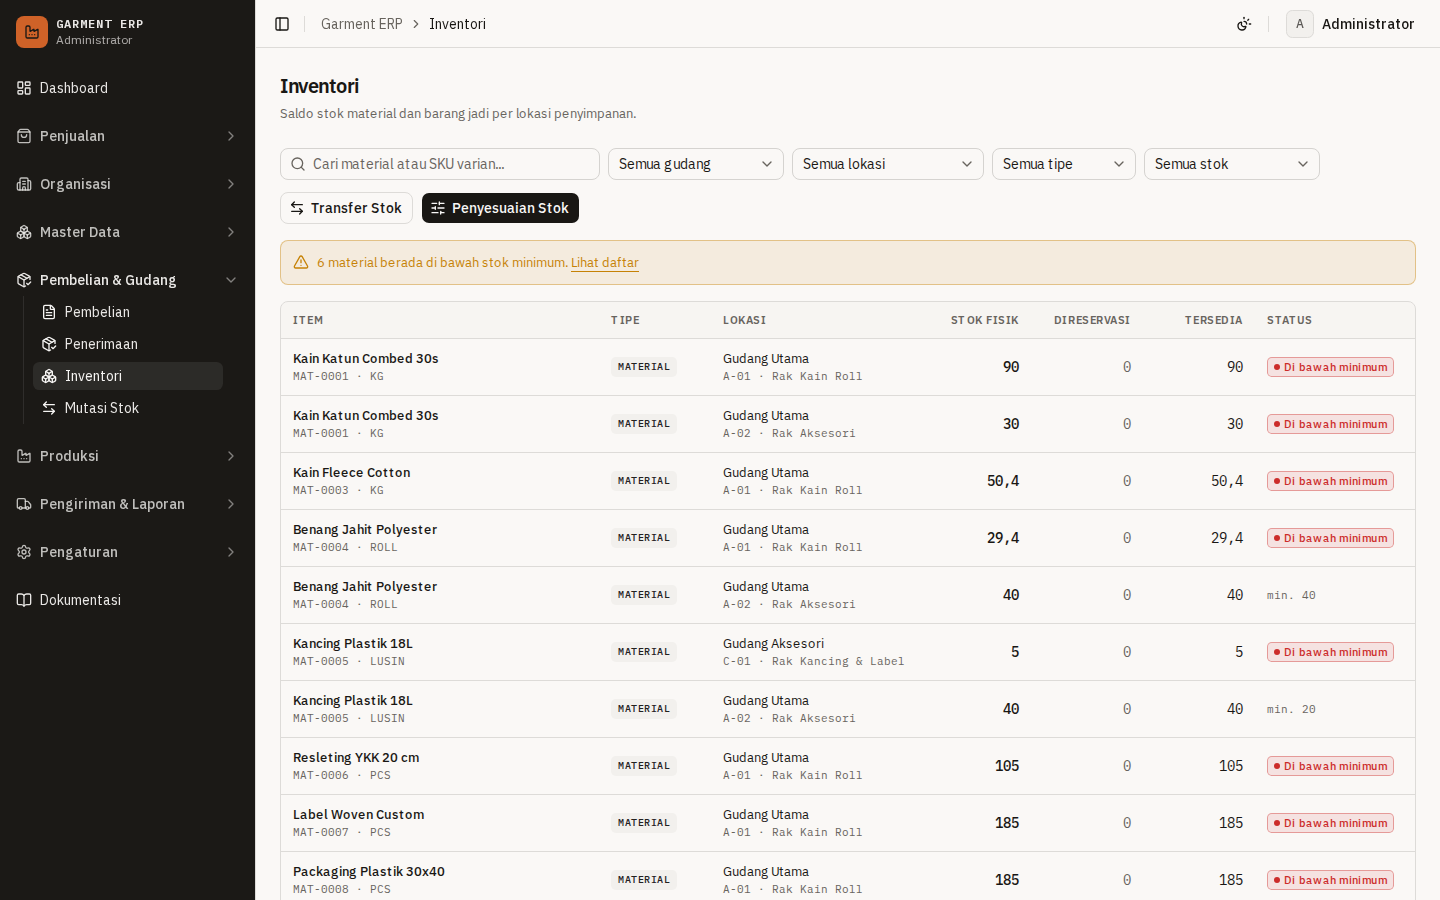
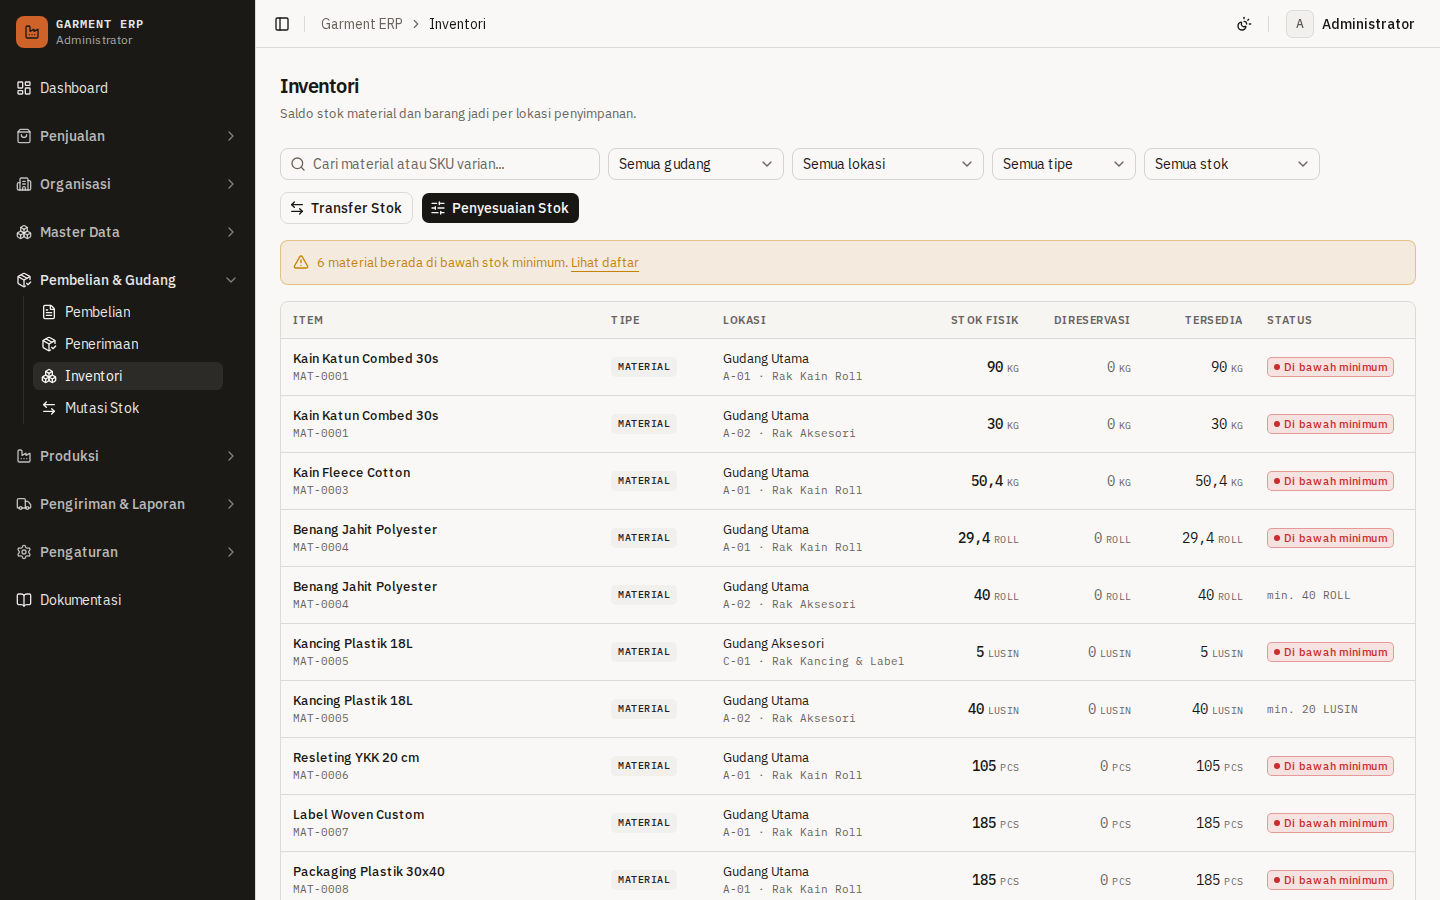
fix: tampilkan satuan pada kuantitas stok
- Tampilkan KG/ROLL/LUSIN/PCS langsung di setiap angka stok, mutasi, dan barang jadi.\n- Tambahkan satuan pada nilai minimum stok dan kartu ringkasan barang jadi.\n- Perbarui screenshot inventori dan barang jadi.

diff --git a/src/modules/inventory/components/balances-table.tsx b/src/modules/inventory/components/balances-table.tsx
@@ -1,6 +1,12 @@
 import { Boxes } from "lucide-react";
 import { Badge } from "@/components/ui/badge";
-import { Empty, EmptyDescription, EmptyHeader, EmptyMedia, EmptyTitle } from "@/components/ui/empty";
+import {
+  Empty,
+  EmptyDescription,
+  EmptyHeader,
+  EmptyMedia,
+  EmptyTitle,
+} from "@/components/ui/empty";
 import {
   Table,
   TableBody,
@@ -66,8 +72,9 @@ export function BalancesTable({ balances }: BalancesTableProps) {
                 : (balance.productName ?? "—");
             const secondary =
               balance.itemType === "MATERIAL"
-                ? `${balance.materialCode ?? "—"} · ${balance.unitCode ?? ""}`
+                ? (balance.materialCode ?? "—")
                 : `${balance.variantSku ?? "—"} · ${balance.size ?? ""}/${balance.color ?? ""}`;
+            const unit = balance.itemType === "MATERIAL" ? (balance.unitCode ?? "") : "PCS";
             return (
               <TableRow key={balance.id}>
                 <TableCell>
@@ -88,23 +95,46 @@ export function BalancesTable({ balances }: BalancesTableProps) {
                   </span>
                 </TableCell>
                 <TableCell className="nums text-right font-mono text-sm font-medium">
-                  {formatQty(balance.quantityOnHand)}
+                  <span className="inline-flex items-baseline justify-end gap-1">
+                    {formatQty(balance.quantityOnHand)}
+                    {unit ? (
+                      <span className="text-[10px] font-normal tracking-wide text-muted-foreground">
+                        {unit}
+                      </span>
+                    ) : null}
+                  </span>
                 </TableCell>
                 <TableCell className="nums text-right font-mono text-sm text-muted-foreground">
-                  {formatQty(balance.quantityReserved)}
+                  <span className="inline-flex items-baseline justify-end gap-1">
+                    {formatQty(balance.quantityReserved)}
+                    {unit ? (
+                      <span className="text-[10px] font-normal tracking-wide">{unit}</span>
+                    ) : null}
+                  </span>
                 </TableCell>
                 <TableCell className="nums text-right font-mono text-sm">
-                  {formatQty(balance.quantityAvailable)}
+                  <span className="inline-flex items-baseline justify-end gap-1">
+                    {formatQty(balance.quantityAvailable)}
+                    {unit ? (
+                      <span className="text-[10px] font-normal tracking-wide text-muted-foreground">
+                        {unit}
+                      </span>
+                    ) : null}
+                  </span>
                 </TableCell>
                 <TableCell>
                   {low ? (
-                    <Badge variant="outline" className="border-destructive/40 bg-destructive/10 text-destructive">
+                    <Badge
+                      variant="outline"
+                      className="border-destructive/40 bg-destructive/10 text-destructive"
+                    >
                       <span aria-hidden className="size-1.5 rounded-full bg-destructive" />
                       Di bawah minimum
                     </Badge>
                   ) : balance.itemType === "MATERIAL" && Number(balance.minimumStock) > 0 ? (
                     <span className="nums font-mono text-[11px] text-muted-foreground">
                       min. {formatQty(balance.minimumStock ?? "0")}
+                      {unit ? ` ${unit}` : ""}
                     </span>
                   ) : (
                     <span className="text-xs text-muted-foreground">—</span>

diff --git a/src/modules/inventory/service.ts b/src/modules/inventory/service.ts
@@ -161,6 +161,7 @@ export type InventoryTransactionListRow = {
   variantId: string | null;
   variantSku: string | null;
   productName: string | null;
+  unitCode: string | null;
   transactionType: InventoryTransaction["transactionType"];
   quantity: string;
   fromLocationId: string | null;
@@ -205,8 +206,10 @@ export async function listInventoryTransactions(
       ),
     );
   }
-  if (params.type !== "all") conditions.push(eq(inventoryTransactions.transactionType, params.type));
-  if (params.itemType !== "all") conditions.push(eq(inventoryTransactions.itemType, params.itemType));
+  if (params.type !== "all")
+    conditions.push(eq(inventoryTransactions.transactionType, params.type));
+  if (params.itemType !== "all")
+    conditions.push(eq(inventoryTransactions.itemType, params.itemType));
   if (params.location) {
     conditions.push(
       or(
@@ -215,8 +218,10 @@ export async function listInventoryTransactions(
       ),
     );
   }
-  if (params.from) conditions.push(gte(inventoryTransactions.postedAt, jakartaDayStart(params.from)));
-  if (params.to) conditions.push(lt(inventoryTransactions.postedAt, jakartaDayEndExclusive(params.to)));
+  if (params.from)
+    conditions.push(gte(inventoryTransactions.postedAt, jakartaDayStart(params.from)));
+  if (params.to)
+    conditions.push(lt(inventoryTransactions.postedAt, jakartaDayEndExclusive(params.to)));
   const where = conditions.length > 0 ? and(...conditions) : undefined;
 
   const from = db
@@ -230,6 +235,7 @@ export async function listInventoryTransactions(
       variantId: inventoryTransactions.variantId,
       variantSku: productVariants.variantSku,
       productName: products.name,
+      unitCode: unitsOfMeasure.code,
       transactionType: inventoryTransactions.transactionType,
       quantity: inventoryTransactions.quantity,
       fromLocationId: inventoryTransactions.fromLocationId,
@@ -249,6 +255,7 @@ export async function listInventoryTransactions(
     })
     .from(inventoryTransactions)
     .leftJoin(materials, eq(inventoryTransactions.materialId, materials.id))
+    .leftJoin(unitsOfMeasure, eq(materials.unitId, unitsOfMeasure.id))
     .leftJoin(productVariants, eq(inventoryTransactions.variantId, productVariants.id))
     .leftJoin(products, eq(productVariants.productId, products.id))
     .leftJoin(fromLocation, eq(inventoryTransactions.fromLocationId, fromLocation.id))
@@ -379,10 +386,7 @@ export async function transferStock(
 ): Promise<InventoryTransaction> {
   return db.transaction(async (tx) => {
     const item = await resolveItemRef(tx, input);
-    const locations = await assertLocationsActive(tx, [
-      input.fromLocationId,
-      input.toLocationId,
-    ]);
+    const locations = await assertLocationsActive(tx, [input.fromLocationId, input.toLocationId]);
 
     const result = await postMovement(tx, {
       ...toEngineItemRef(item),

diff --git a/src/modules/inventory/components/movements-table.tsx b/src/modules/inventory/components/movements-table.tsx
@@ -1,5 +1,11 @@
 import { ArrowLeftRight } from "lucide-react";
-import { Empty, EmptyDescription, EmptyHeader, EmptyMedia, EmptyTitle } from "@/components/ui/empty";
+import {
+  Empty,
+  EmptyDescription,
+  EmptyHeader,
+  EmptyMedia,
+  EmptyTitle,
+} from "@/components/ui/empty";
 import {
   Table,
   TableBody,
@@ -19,13 +25,13 @@ type MovementsTableProps = {
 
 /** Arah kuantitas per jenis mutasi: masuk (+), keluar (−), transfer netral. */
 function signedQuantity(transaction: InventoryTransactionListRow): string {
-  if (transaction.transactionType === "RECEIPT" || transaction.transactionType === "ADJUSTMENT_IN") {
+  if (
+    transaction.transactionType === "RECEIPT" ||
+    transaction.transactionType === "ADJUSTMENT_IN"
+  ) {
     return `+${formatQty(transaction.quantity)}`;
   }
-  if (
-    transaction.transactionType === "ISSUE" ||
-    transaction.transactionType === "ADJUSTMENT_OUT"
-  ) {
+  if (transaction.transactionType === "ISSUE" || transaction.transactionType === "ADJUSTMENT_OUT") {
     return `−${formatQty(transaction.quantity)}`;
   }
   return formatQty(transaction.quantity);
@@ -73,6 +79,7 @@ export function MovementsTable({ transactions }: MovementsTableProps) {
               transaction.itemType === "MATERIAL"
                 ? transaction.materialCode
                 : transaction.variantSku;
+            const unit = transaction.itemType === "MATERIAL" ? (transaction.unitCode ?? "") : "PCS";
             return (
               <TableRow key={transaction.id}>
                 <TableCell className="nums font-mono text-xs text-muted-foreground">
@@ -113,7 +120,14 @@ export function MovementsTable({ transactions }: MovementsTableProps) {
                   )}
                 </TableCell>
                 <TableCell className="nums text-right font-mono text-sm font-medium">
-                  {signedQuantity(transaction)}
+                  <span className="inline-flex items-baseline justify-end gap-1">
+                    {signedQuantity(transaction)}
+                    {unit ? (
+                      <span className="text-[10px] font-normal tracking-wide text-muted-foreground">
+                        {unit}
+                      </span>
+                    ) : null}
+                  </span>
                 </TableCell>
                 <TableCell className="text-[13px] text-muted-foreground">
                   {transaction.notes ? (

diff --git a/src/app/(dashboard)/finished-goods/page.tsx b/src/app/(dashboard)/finished-goods/page.tsx
@@ -11,10 +11,7 @@ import { formatNumber } from "@/lib/utils/currency";
 import { FinishedGoodsLotsTable } from "@/modules/finished-goods/components/finished-goods-lots-table";
 import { FinishedGoodsTable } from "@/modules/finished-goods/components/finished-goods-table";
 import { listFinishedGoodsQuerySchema } from "@/modules/finished-goods/schemas";
-import {
-  listFinishedGoodsLots,
-  listFinishedGoodsStock,
-} from "@/modules/finished-goods/service";
+import { listFinishedGoodsLots, listFinishedGoodsStock } from "@/modules/finished-goods/service";
 import { listWarehouseOptions } from "@/modules/master/warehouse/service";
 
 export const metadata: Metadata = { title: "Barang Jadi" };
@@ -65,9 +62,7 @@ async function FinishedGoodsSection({ searchParams }: FinishedGoodsPageProps) {
     location: typeof params.location === "string" ? params.location : undefined,
     page: params.page,
   });
-  const listParams = parsed.success
-    ? parsed.data
-    : listFinishedGoodsQuerySchema.parse({});
+  const listParams = parsed.success ? parsed.data : listFinishedGoodsQuerySchema.parse({});
 
   const [{ items, total, totals }, warehouses, lots] = await Promise.all([
     listFinishedGoodsStock(listParams),
@@ -87,7 +82,7 @@ async function FinishedGoodsSection({ searchParams }: FinishedGoodsPageProps) {
         <Card size="sm">
           <CardHeader className="flex-row items-center justify-between gap-3">
             <div className="flex flex-col gap-0.5">
-              <CardDescription>Stok fisik</CardDescription>
+              <CardDescription>Stok fisik (pcs)</CardDescription>
               <CardTitle className="font-mono text-2xl tabular-nums">
                 {formatNumber(totals.onHand)}
               </CardTitle>
@@ -98,7 +93,7 @@ async function FinishedGoodsSection({ searchParams }: FinishedGoodsPageProps) {
         <Card size="sm">
           <CardHeader className="flex-row items-center justify-between gap-3">
             <div className="flex flex-col gap-0.5">
-              <CardDescription>Tersedia untuk dialokasikan</CardDescription>
+              <CardDescription>Tersedia untuk dialokasikan (pcs)</CardDescription>
               <CardTitle className="font-mono text-2xl tabular-nums">
                 {formatNumber(totals.available)}
               </CardTitle>

diff --git a/src/modules/finished-goods/components/finished-goods-table.tsx b/src/modules/finished-goods/components/finished-goods-table.tsx
@@ -1,6 +1,12 @@
 import { PackageSearch } from "lucide-react";
 import { Badge } from "@/components/ui/badge";
-import { Empty, EmptyDescription, EmptyHeader, EmptyMedia, EmptyTitle } from "@/components/ui/empty";
+import {
+  Empty,
+  EmptyDescription,
+  EmptyHeader,
+  EmptyMedia,
+  EmptyTitle,
+} from "@/components/ui/empty";
 import {
   Table,
   TableBody,
@@ -15,6 +21,19 @@ import type { FinishedGoodsStockRow } from "../service";
 type FinishedGoodsTableProps = {
   rows: FinishedGoodsStockRow[];
 };
+
+const FINISHED_GOOD_UNIT = "PCS";
+
+function StockQuantity({ value }: { value: number | string }) {
+  return (
+    <span className="inline-flex items-baseline justify-end gap-1">
+      {formatNumber(value)}
+      <span className="text-[10px] font-normal tracking-wide text-muted-foreground">
+        {FINISHED_GOOD_UNIT}
+      </span>
+    </span>
+  );
+}
 
 /** Tabel saldo barang jadi per varian dan lokasi. */
 export function FinishedGoodsTable({ rows }: FinishedGoodsTableProps) {
@@ -68,15 +87,19 @@ export function FinishedGoodsTable({ rows }: FinishedGoodsTableProps) {
                   </div>
                 </TableCell>
                 <TableCell className="text-right font-mono tabular-nums">
-                  {formatNumber(row.quantityOnHand)}
+                  <StockQuantity value={row.quantityOnHand} />
                 </TableCell>
                 <TableCell className="text-right font-mono text-muted-foreground tabular-nums">
-                  {Number(row.quantityReserved) > 0 ? formatNumber(row.quantityReserved) : "—"}
+                  {Number(row.quantityReserved) > 0 ? (
+                    <StockQuantity value={row.quantityReserved} />
+                  ) : (
+                    "—"
+                  )}
                 </TableCell>
                 <TableCell className="text-right">
                   {available > 0 ? (
                     <span className="font-mono font-medium tabular-nums">
-                      {formatNumber(available)}
+                      <StockQuantity value={available} />
                     </span>
                   ) : (
                     <Badge variant="outline" className="text-muted-foreground">

diff --git a/src/modules/finished-goods/components/finished-goods-lots-table.tsx b/src/modules/finished-goods/components/finished-goods-lots-table.tsx
@@ -1,6 +1,12 @@
 import Link from "next/link";
 import { History } from "lucide-react";
-import { Empty, EmptyDescription, EmptyHeader, EmptyMedia, EmptyTitle } from "@/components/ui/empty";
+import {
+  Empty,
+  EmptyDescription,
+  EmptyHeader,
+  EmptyMedia,
+  EmptyTitle,
+} from "@/components/ui/empty";
 import {
   Table,
   TableBody,
@@ -46,7 +52,7 @@ export function FinishedGoodsLotsTable({ lots }: { lots: FinishedGoodsLotRow[] }
         <TableBody>
           {lots.map((lot) => (
             <TableRow key={lot.id}>
-              <TableCell className="whitespace-nowrap font-mono text-[12px] text-muted-foreground tabular-nums">
+              <TableCell className="font-mono text-[12px] whitespace-nowrap text-muted-foreground tabular-nums">
                 {formatDateTimeId(lot.createdAt)}
               </TableCell>
               <TableCell>
@@ -58,7 +64,12 @@ export function FinishedGoodsLotsTable({ lots }: { lots: FinishedGoodsLotRow[] }
                 </div>
               </TableCell>
               <TableCell className="text-right font-mono font-medium tabular-nums">
-                {Number(lot.quantity).toLocaleString("id-ID")}
+                <span className="inline-flex items-baseline justify-end gap-1">
+                  {Number(lot.quantity).toLocaleString("id-ID")}
+                  <span className="text-[10px] font-normal tracking-wide text-muted-foreground">
+                    PCS
+                  </span>
+                </span>
               </TableCell>
               <TableCell>
                 <Link
